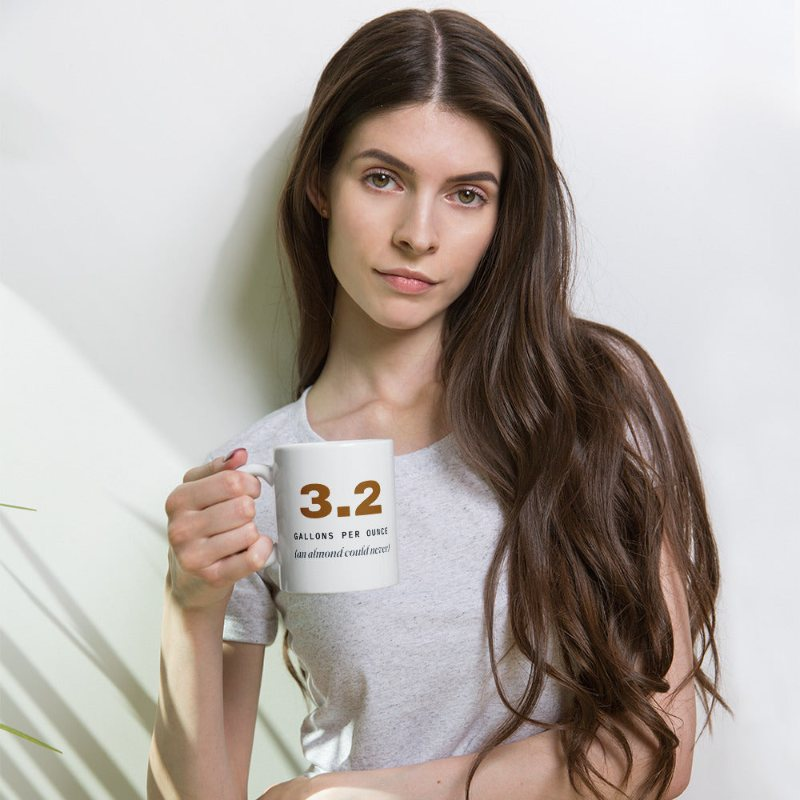
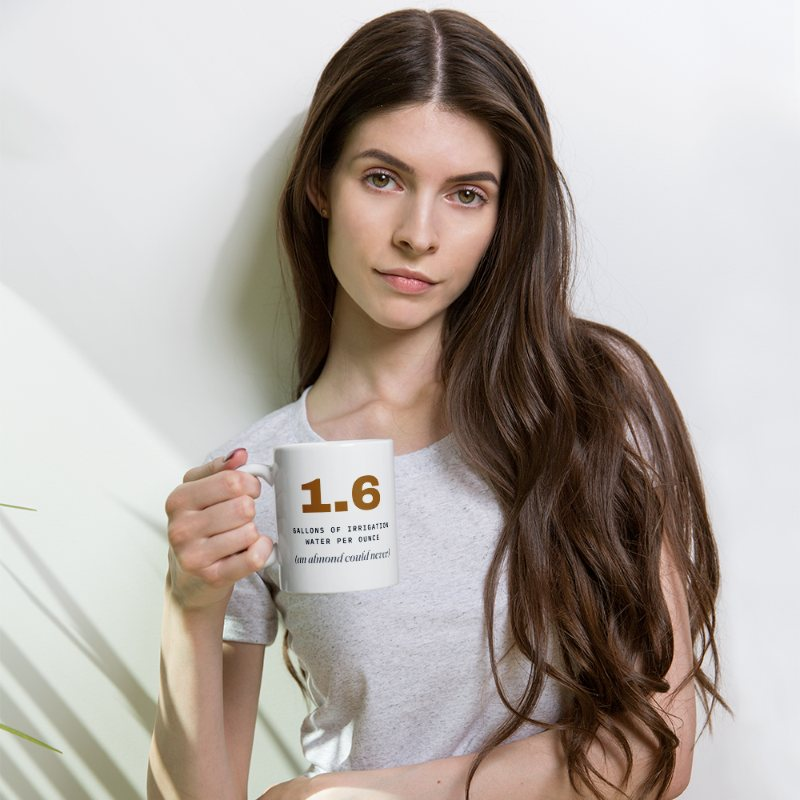
Use sourced water figures: 1.6 vs 28.6 gal of irrigation water per oz
Mekonnen & Hoekstra (2011), Table 3, blue water for shelled groundnuts
(214 m3/t) and shelled almonds (3,816 m3/t). Replaces the peanut-industry
3.2 / 28.7 figures across the site, the Sources page and the mug art
(Printful product retitled 1.6 Gallons Mug; handle unchanged).

Changed region(s): [[0.375, 0.5938, 0.5, 0.7188]]

diff --git a/sources.html b/sources.html
@@ -27,15 +27,11 @@
   <section class="block">
     <div class="wrap">
       <h2>Water</h2>
-      <p>Irrigation water per pound, global averages: about 26 gallons for peanuts and about 457 gallons for almonds.
-        Converted from 214 and 3,816 liters of "blue" (irrigation) water per kilogram.</p>
+      <p>Irrigation water per ounce, global averages for shelled nuts: about <b>1.6 gallons for peanuts</b> and about
+        <b>28.6 gallons for almonds</b>. That's about 26 and 457 gallons per pound. The study reports 214 and 3,816 cubic
+        meters of "blue" (irrigation) water per ton (Table 3), which is the same as liters per kilogram.</p>
       <ul class="sources">
-        <li>M. M. Mekonnen and A. Y. Hoekstra, <a href="https://www.waterfootprint.org/resources/Mekonnen-Hoekstra-2011-WaterFootprintCrops.pdf" rel="noopener">"The green, blue and grey water footprint of crops and derived crop products,"</a> <i>Hydrology and Earth System Sciences</i>, 2011.</li>
-      </ul>
-      <p>The "3.2 gallons per ounce" and "28.7 gallons per ounce" figures on this site and on our mug are the peanut
-        growers' own sustainability numbers, published by state peanut grower groups.</p>
-      <ul class="sources">
-        <li>Virginia and North Carolina Peanut Growers Associations and South Carolina Peanut Board, <a href="https://aboutpeanuts.com/peanut-sustainability/" rel="noopener">"Peanut Sustainability"</a>.</li>
+        <li>M. M. Mekonnen and A. Y. Hoekstra, <a href="https://www.waterfootprint.org/resources/Mekonnen-Hoekstra-2011-WaterFootprintCrops.pdf" rel="noopener">"The green, blue and grey water footprint of crops and derived crop products,"</a> <i>Hydrology and Earth System Sciences</i> 15, 1577&ndash;1600, 2011.</li>
       </ul>
 
       <h2>Peanuts are legumes</h2>

diff --git a/merch/designs.html b/merch/designs.html
@@ -32,7 +32,7 @@
   #mug-gallons { width: 2700px; height: 1050px; flex-direction: row; justify-content: space-around; }
   #mug-gallons .side { width: 1150px; display: flex; flex-direction: column; align-items: center; }
   #mug-gallons .hl { font-size: 380px; color: var(--con-roast); }
-  #mug-gallons .fp { font-size: 70px; margin-top: 36px; }
+  #mug-gallons .fp { font-size: 58px; line-height: 1.5; margin-top: 36px; text-align: center; }
   #mug-gallons .as { font-size: 100px; color: var(--con-slate); margin-top: 26px; }
   #mug-gallons .mk { height: 480px; }
   #mug-gallons .wm { width: 1050px; margin-top: 60px; }
@@ -75,7 +75,7 @@
 </div>
 
 <div class="art" id="mug-gallons">
-  <div class="side"><div class="hl">3.2</div><div class="fp">Gallons per ounce</div><div class="as">(an almond could never)</div></div>
+  <div class="side"><div class="hl">1.6</div><div class="fp">Gallons of irrigation<br>water per ounce</div><div class="as">(an almond could never)</div></div>
   <div class="side"><img class="mk" src="../brand/logo/svg/mark-full-color.svg" alt=""><img class="wm" src="../brand/logo/svg/wordmark-full-color.svg" alt=""></div>
 </div>
 

diff --git a/shop.html b/shop.html
@@ -40,9 +40,9 @@
           <a class="btn btn-primary" data-product="legume-not-a-nut-tee">Buy now</a></div>
       </article>
       <article class="product">
-        <div class="mock photo"><img src="assets/img/products/mug-gallons.jpg" alt="White mug reading 3.2 gallons per ounce, an almond could never." loading="lazy" width="800" height="800"></div>
-        <div class="body"><h3>3.2 Gallons Mug</h3>
-          <p>Holds 11 oz. Filling it with almonds instead would cost about 316 gallons of water. We did the math.</p><span class="price">$18</span>
+        <div class="mock photo"><img src="assets/img/products/mug-gallons.jpg" alt="White mug reading 1.6 gallons of irrigation water per ounce, an almond could never." loading="lazy" width="800" height="800"></div>
+        <div class="body"><h3>1.6 Gallons Mug</h3>
+          <p>Holds 11 oz. Filling it with almonds instead would cost about 315 gallons of irrigation water. We did the math.</p><span class="price">$18</span>
           <a class="btn btn-primary" data-product="3-2-gallons-mug">Buy now</a></div>
       </article>
       <article class="product">

diff --git a/index.html b/index.html
@@ -52,7 +52,7 @@
         <div class="card">
           <div class="num">02</div>
           <h3>Hydration Responsibility</h3>
-          <p>A peanut uses about 3.2 gallons of water per ounce. An almond uses 28.7. We are not here to name names. The
+          <p>A peanut takes about 1.6 gallons of irrigation water per ounce. An almond takes 28.6. We are not here to name names. The
             almond knows what it did.</p>
         </div>
         <div class="card">
@@ -73,8 +73,8 @@
         <p class="lede">We asked the numbers to speak for us. They agreed.</p>
       </div>
       <div class="stats">
-        <div><b class="up">3.2</b>Gallons of water per ounce (peanut)</div>
-        <div><b class="down">28.7</b>Gallons of water per ounce (almond, unfortunately)</div>
+        <div><b class="up">1.6</b>Gallons of irrigation water per ounce (peanut)</div>
+        <div><b class="down">28.6</b>Gallons of irrigation water per ounce (almond, unfortunately)</div>
         <div><b>540</b>Peanuts per 12-oz jar. Give or take.</div>
         <div><b>35,000</b>PB&amp;Js per acre</div>
       </div>

diff --git a/what.html b/what.html
@@ -38,8 +38,8 @@
           <p>Not a nut. Peas and beans are family. Almonds are not, and we'd like to keep it that way.</p></div>
         <div class="card"><div class="num">02</div><h3>It grows underground.</h3>
           <p>The plant flowers above the soil, then plants its own peanuts below it. Nobody asked it to. It just handles things.</p></div>
-        <div class="card"><div class="num">03</div><h3>3.2 gallons.</h3>
-          <p>That's about how much water an ounce of peanuts takes. An ounce of almonds takes 28.7. We're not saying anything. The numbers are.</p></div>
+        <div class="card"><div class="num">03</div><h3>1.6 gallons.</h3>
+          <p>That's about how much irrigation water an ounce of peanuts takes. An ounce of almonds takes 28.6. We're not saying anything. The numbers are.</p></div>
       </div>
       <div class="actions">
         <a class="btn btn-primary" href="shop.html">Shop Shareholder Merch</a>

diff --git a/faq.html b/faq.html
@@ -35,8 +35,8 @@
       </details>
       <details>
         <summary>How many gallons of water does it take to produce 1 ounce of peanuts?</summary>
-        <p>We get this one all the time. Peanuts use roughly 3.2 gallons of water to produce 1 ounce of peanuts. Unlike some
-          wasteful nuts (Almonds) which require 28.7 gallons of water per ounce.</p>
+        <p>We get this one all the time. Peanuts use roughly 1.6 gallons of irrigation water to produce 1 ounce of peanuts. Unlike some
+          wasteful nuts (Almonds), which require 28.6 gallons per ounce. <a href="sources.html">Sources</a>.</p>
       </details>
       <details>
         <summary>What is Bill Clinton's favorite sandwich?</summary>

diff --git a/pantry.html b/pantry.html
@@ -68,7 +68,7 @@
       <div class="card pick rejected">
         <span class="rating">✗ NOT APPROVED · UNDER PERMANENT REVIEW</span>
         <h3>Almond Butter (all brands)</h3>
-        <p>28.7 gallons per ounce. The Compliance Department has closed this file and will not be reopening it.</p>
+        <p>28.6 gallons per ounce. The Compliance Department has closed this file and will not be reopening it.</p>
       </div>
     </div>
   </section>

diff --git a/assets/site.js b/assets/site.js
@@ -20,8 +20,8 @@ const NAV = [
 ];
 
 const TICKER = [
-  ["PNUT", "▲ 3.2 GAL/OZ", "up"],
-  ["ALMD", "▼ 28.7 GAL/OZ", "down"],
+  ["PNUT", "▲ 1.6 GAL/OZ", "up"],
+  ["ALMD", "▼ 28.6 GAL/OZ", "down"],
   ["LEGUME IDX", "▲ ALL-TIME HIGH", "up"],
   ["GRAND CANYON COVERAGE", "▲ 100%", "up"],
   ["CREAMY/CRUNCHY SPREAD", "EAST ▲ / WEST ▲", "up"],
